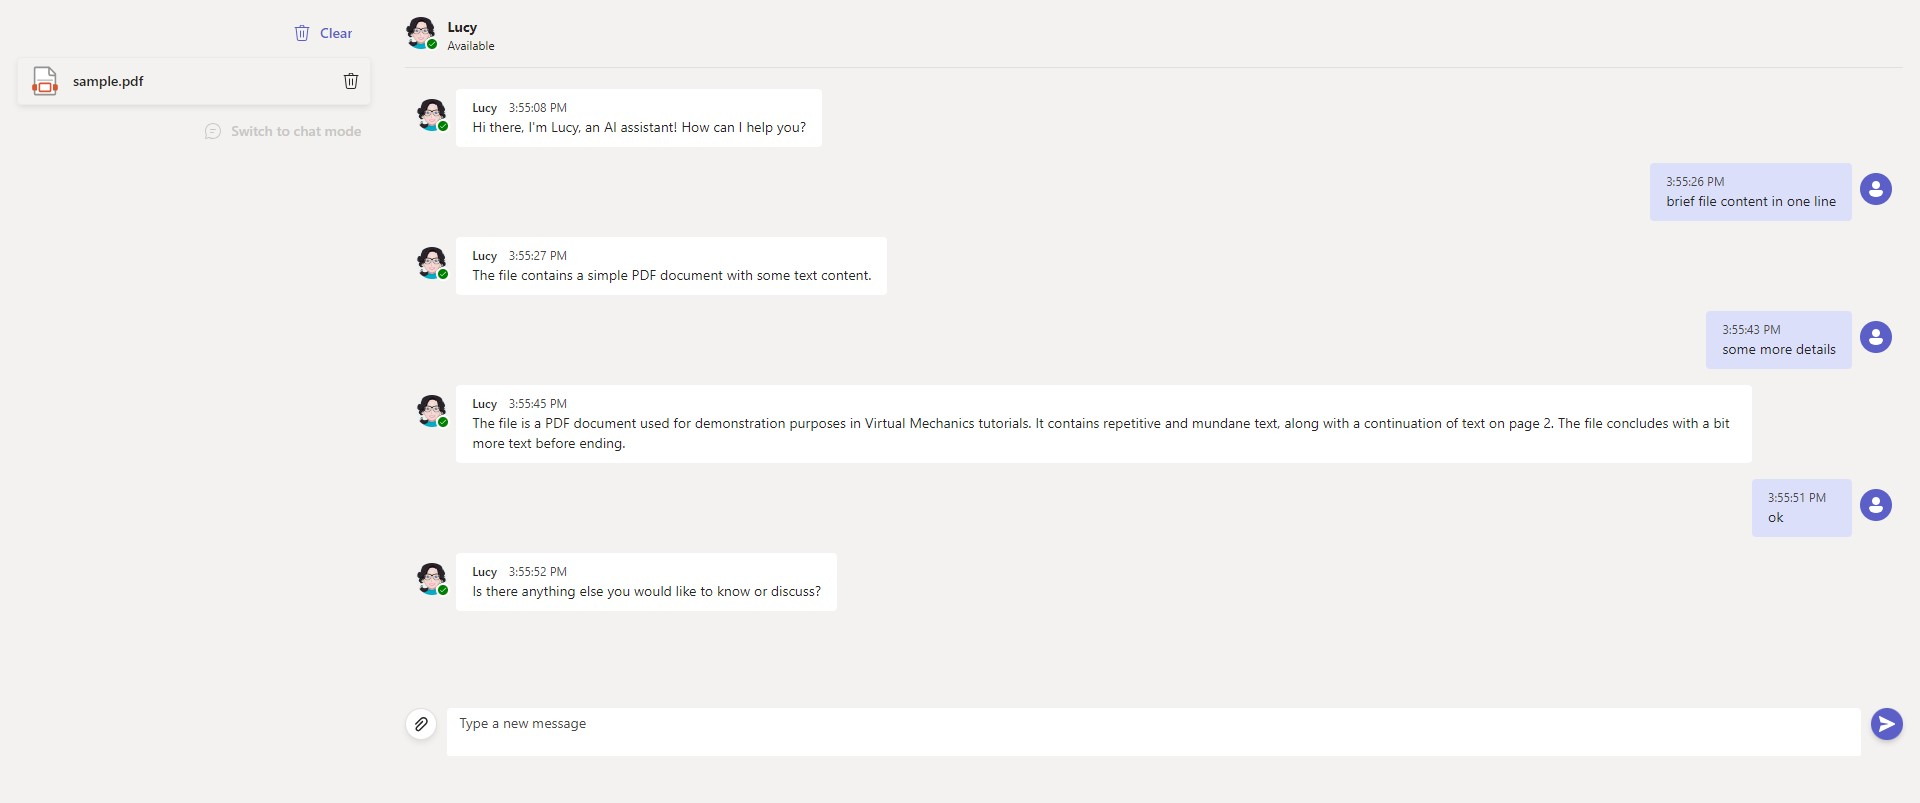
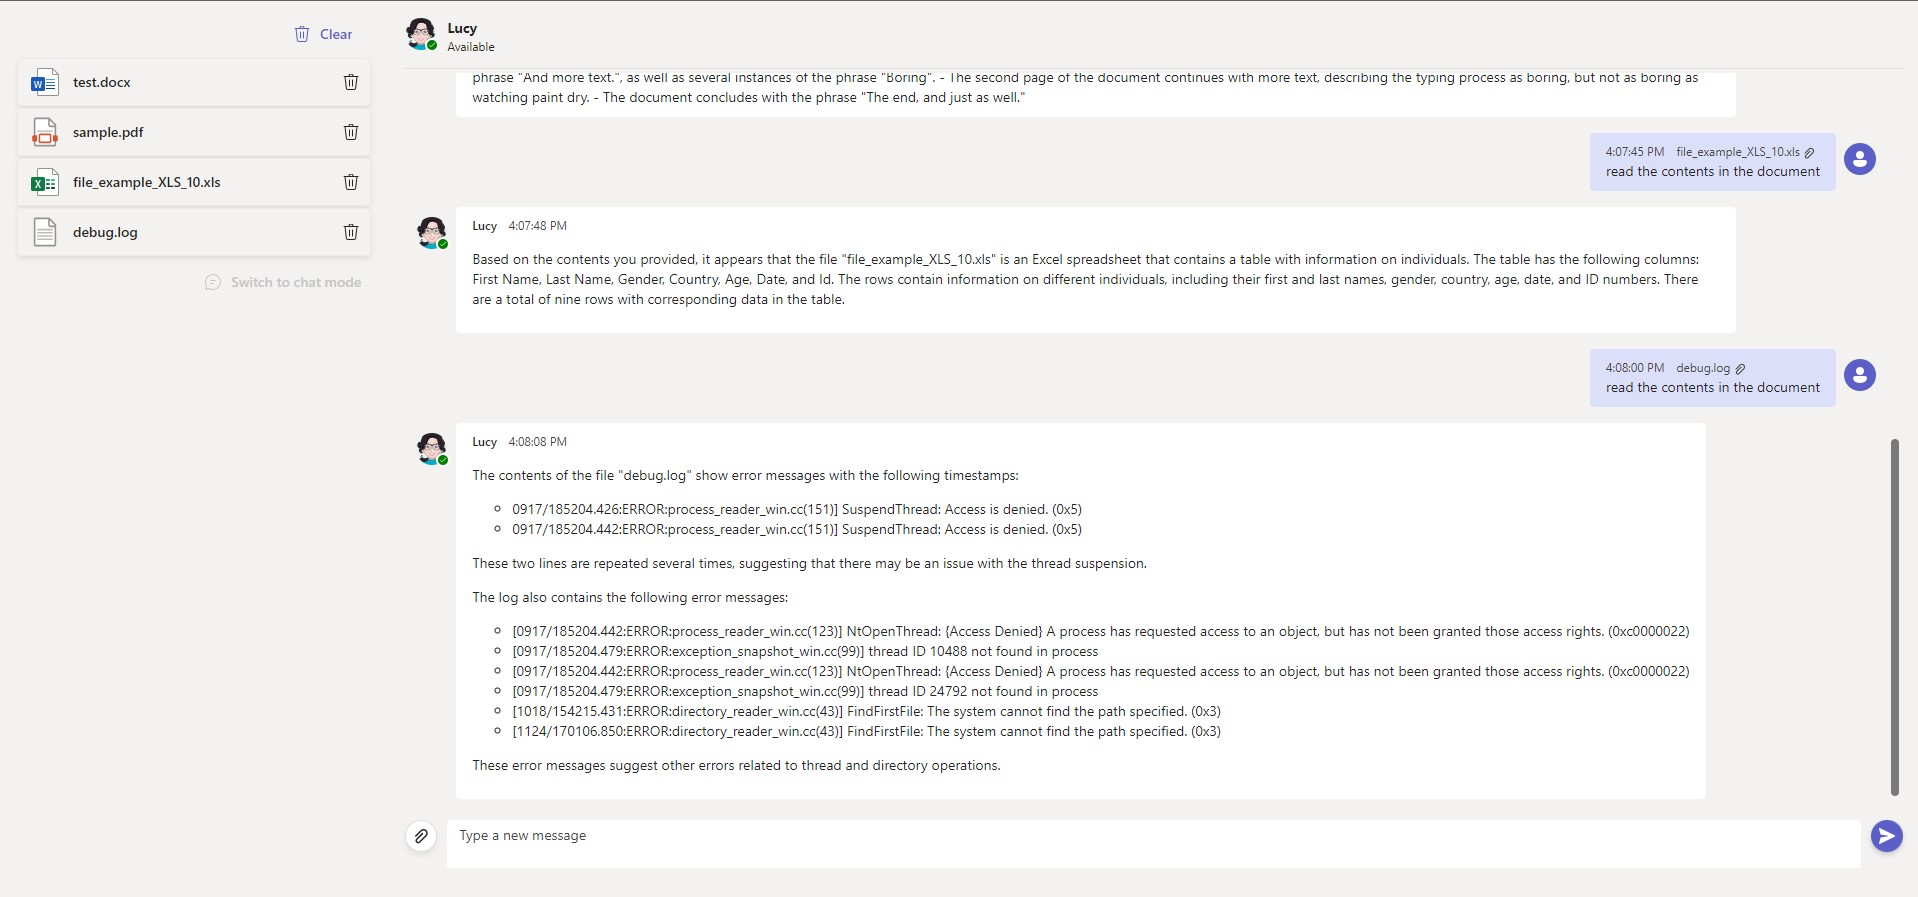
doc types allowed in input file

diff --git a/client/src/App.tsx b/client/src/App.tsx
@@ -2,7 +2,8 @@ import { useState, useRef, useEffect } from 'react';
 import './App.css';
 import {
   ChatIcon, SendIcon, Card, Flex, Avatar, Text, Chat, AcceptIcon, TextArea, Attachment,
-  ChatMessage, PersonIcon, Divider, Button, PaperclipIcon, Alert, TrashCanIcon, FilesPdfIcon
+  ChatMessage, PersonIcon, Divider, Button, PaperclipIcon, Alert, TrashCanIcon, FilesPdfIcon,
+  WordColorIcon, ExcelColorIcon, FilesTextColoredIcon, FilesCodeIcon
 } from "@fluentui/react-northstar"
 import { v4 as uuidv4 } from "uuid";
 import { useMediaQuery } from 'react-responsive'
@@ -237,6 +238,55 @@ function App() {
     return fileName.length > 27 ? fileName.substring(0, 22) + "..." : fileName
   }
 
+  function getFileIcons(fileType: string) {
+    switch (fileType.toLowerCase()) {
+      case "pdf":
+        return <FilesPdfIcon size='large' />
+      case "txt":
+      case "log":
+      case "dat":
+        return <FilesTextColoredIcon size='large' />
+      case "xls":
+      case "xlsx":
+      case "csv":
+        return <ExcelColorIcon size='large' />
+      case "doc":
+      case "docx":
+        return <WordColorIcon size='large' />
+      default:
+        return <FilesCodeIcon size='large' />
+    }
+  }
+
+  let fileTypes = [
+    ".pdf",
+    ".txt",
+    ".log",
+    ".dat",
+    ".csv",
+    ".json",
+    ".xml",
+    ".doc",
+    ".docx",
+    ".xls",
+    ".xlsx",
+    ".js",
+    ".css",
+    ".htm",
+    ".html",
+    ".sql",
+    ".py",
+    ".asp",
+    ".aspx",
+    ".jsp",
+    ".php",
+    ".c",
+    ".cpp",
+    ".cs",
+    ".vb",
+    ".java"
+  ].join(", ")
+
   return (
     <Flex style={{ backgroundColor: 'rgb(243, 242, 241)' }} column={isMobile ? true : false}>
       <Flex.Item size="size.quarter">
@@ -253,7 +303,7 @@ function App() {
                       <Attachment
                         key={doc.fileName}
                         header={truncateFileName(doc.fileName)}
-                        icon={<FilesPdfIcon size='large' />}
+                        icon={getFileIcons(doc.fileName.split('.').pop())}
                         actionable
                         onClick={() => documentSelected(doc)}
                         action={{
@@ -314,7 +364,7 @@ function App() {
                 style={{ display: 'none' }}
                 ref={uploadRef}
                 type="file"
-                accept="application/pdf"
+                accept={fileTypes}
                 onChange={addDocument}
               />
               <Button circular icon={<PaperclipIcon />} onClick={uploadDocument} />
